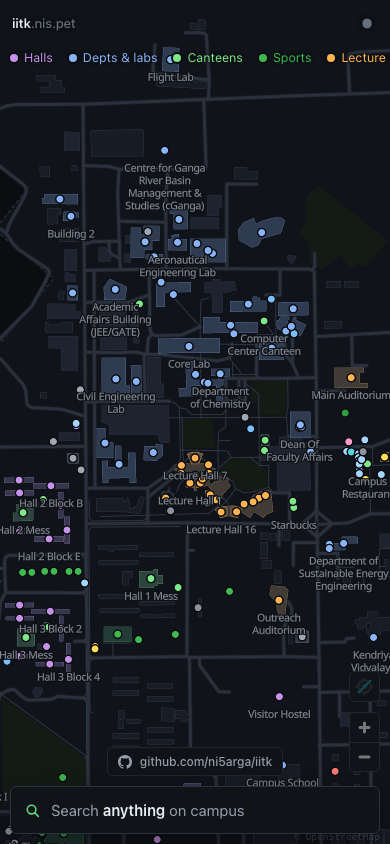
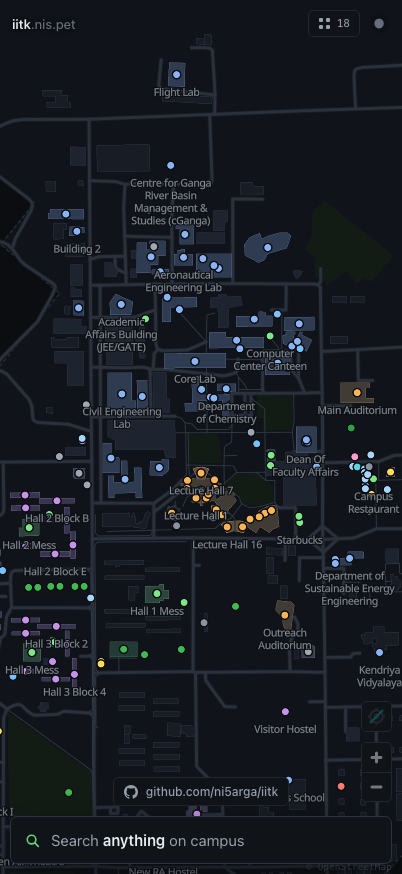
docs: refresh screenshots

diff --git a/README.md b/README.md
@@ -20,8 +20,9 @@ opening hours — and one fast search over all of it.
 </table>
 
 <p align="center">
-  <img src="docs/screenshots/mobile.png" width="300" alt="Mobile layout">
-  <br><sub>Mobile: search in thumb reach, results as a bottom sheet</sub>
+  <img src="docs/screenshots/mobile.png" width="280" alt="Mobile layout">
+  <img src="docs/screenshots/mobile-layers.png" width="280" alt="Layer sheet on mobile">
+  <br><sub>Mobile: search in thumb reach, layers behind a toggle rather than strewn over the map</sub>
 </p>
 
 ```
